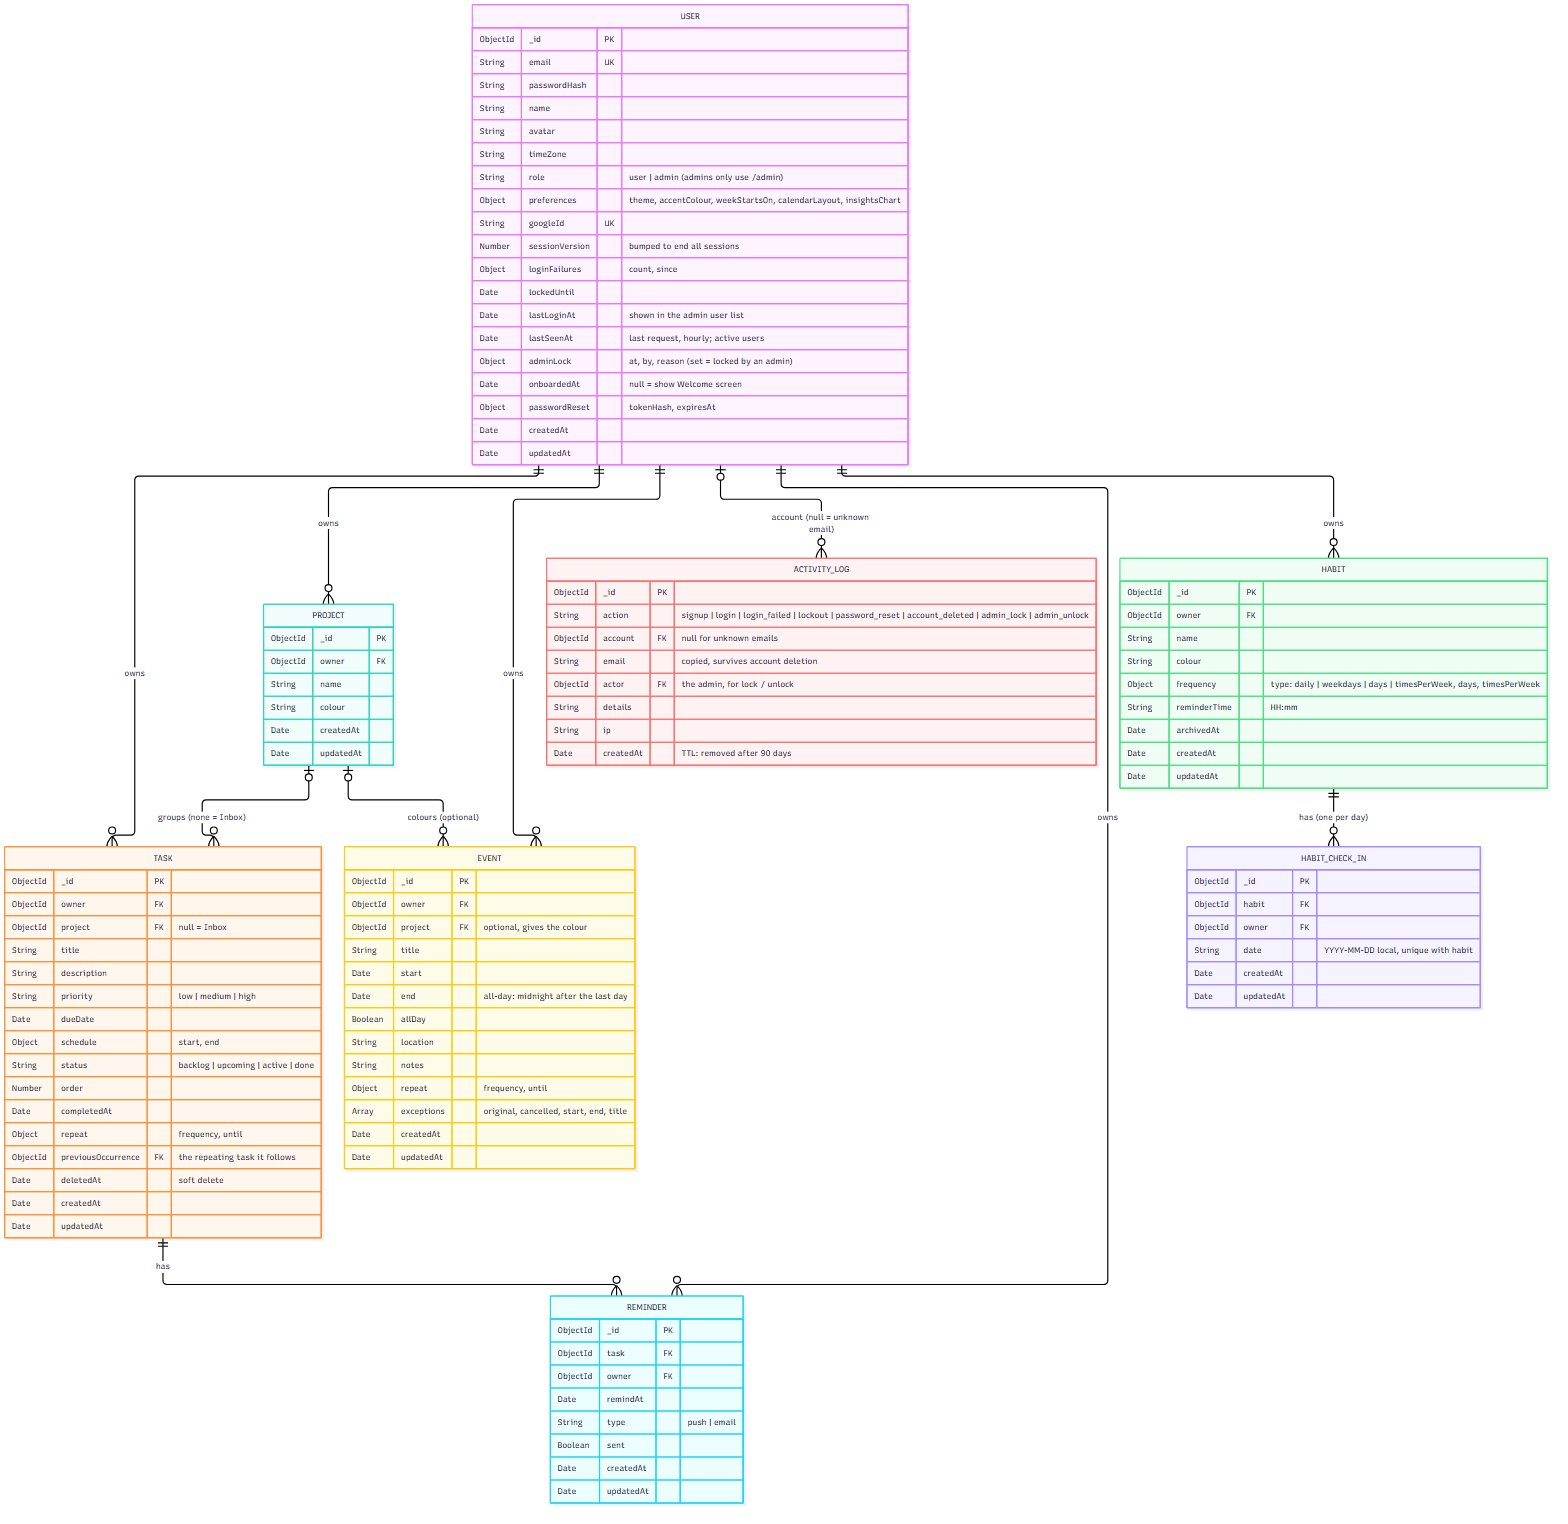
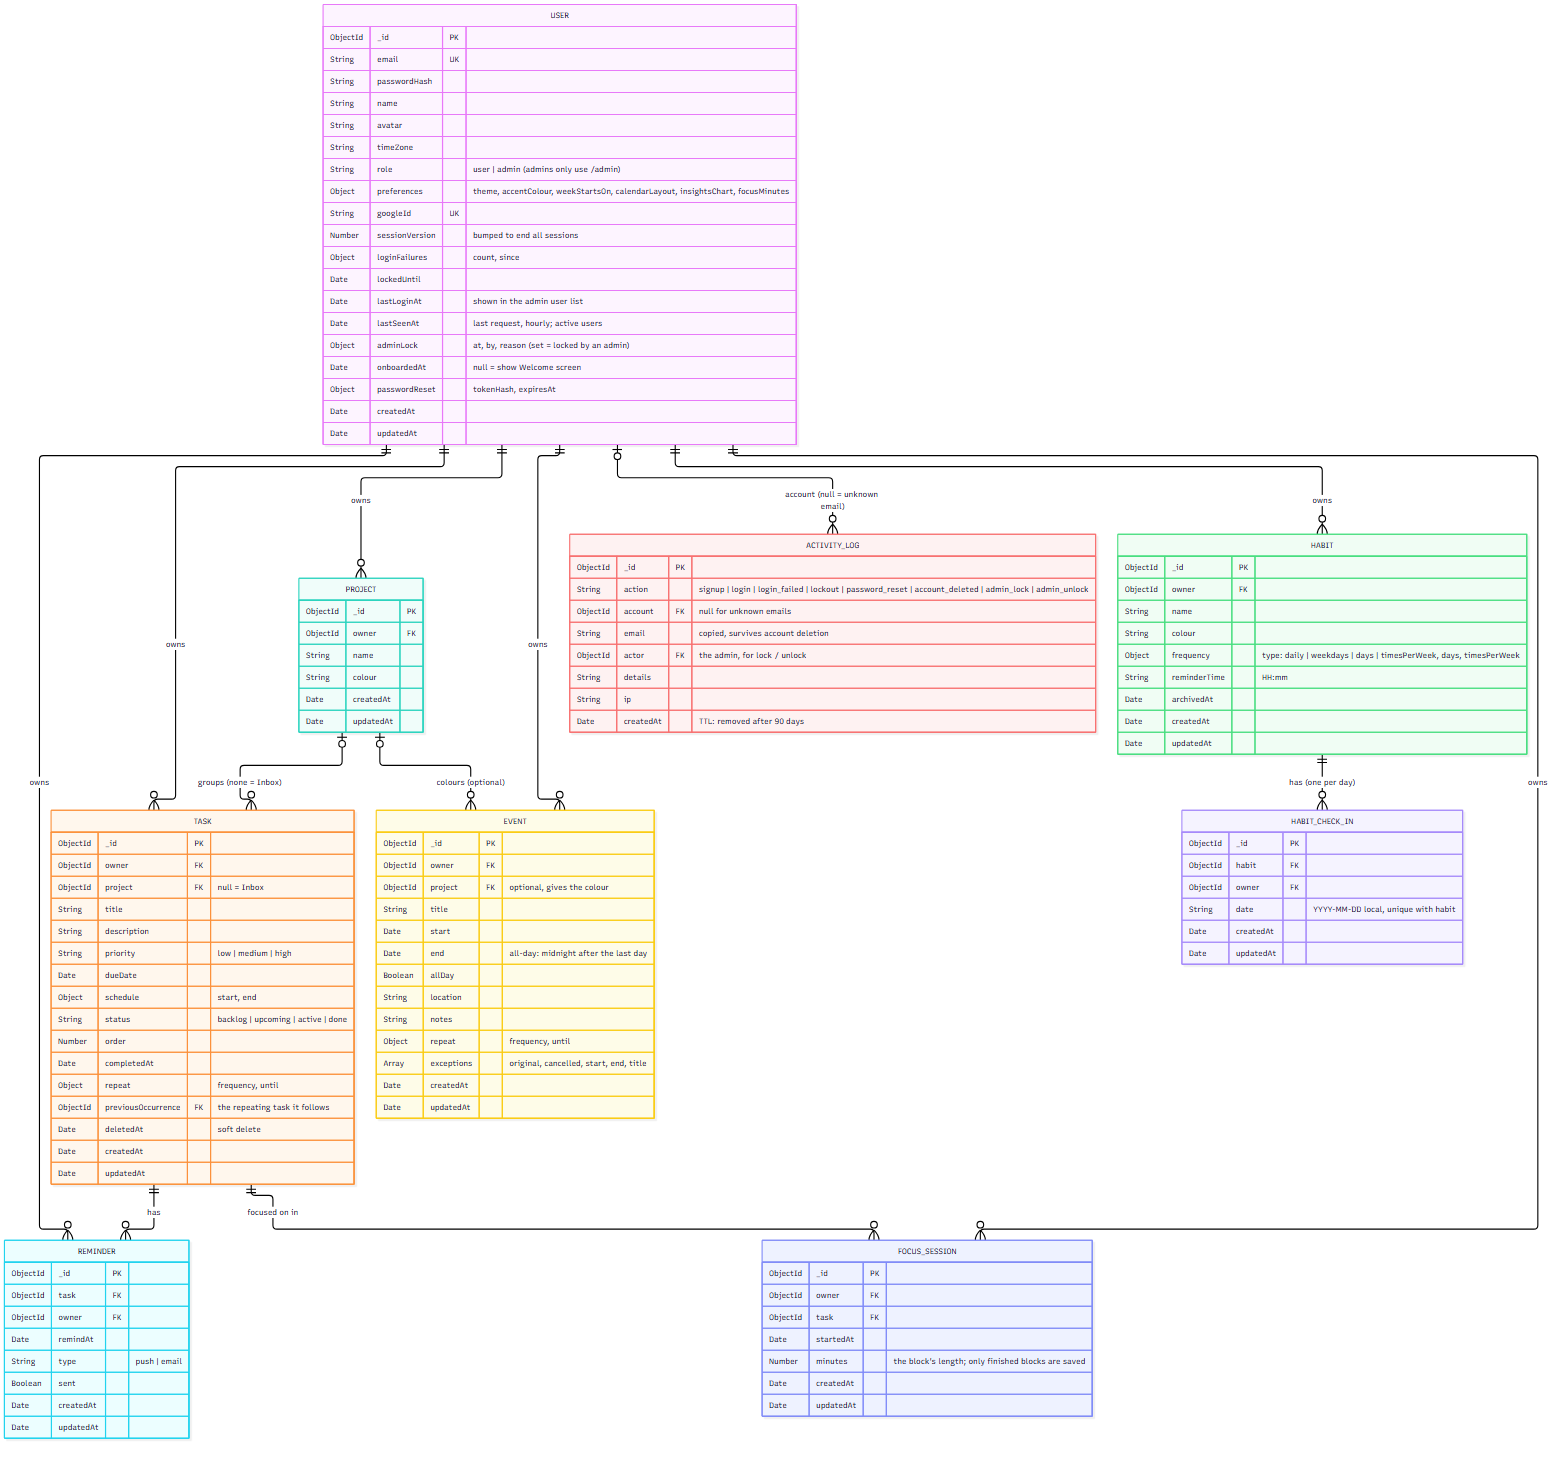
Save focus sessions and the focus length Card: Focus mode
- FocusSession: owner, task, startedAt, minutes. Only blocks that run
  to the end are saved. Added to the ERD and to account deletion.
- preferences.focusMinutes: 25 (with a 5 min break) or 50 (with 10).

diff --git a/tests/accountDeletion.test.js b/tests/accountDeletion.test.js
@@ -50,10 +50,10 @@ describe('deleteAccount', () => {
     const counts = await deleteAccount(req, user);
     expect(order[0]).toBe('log');
     expect(order.at(-1)).toBe('User');
-    expect(order.slice(1, -1).sort()).toEqual(['Event', 'Habit', 'HabitCheckIn', 'Project', 'Reminder', 'Task']);
+    expect(order.slice(1, -1).sort()).toEqual(['Event', 'FocusSession', 'Habit', 'HabitCheckIn', 'Project', 'Reminder', 'Task']);
     for (const Model of OWNED) expect(Model.deleteMany).toHaveBeenCalledWith({ owner: user._id });
     expect(User.deleteOne).toHaveBeenCalledWith({ _id: user._id });
-    expect(counts).toEqual({ Reminder: 2, HabitCheckIn: 2, Habit: 2, Event: 2, Task: 2, Project: 2 });
+    expect(counts).toEqual({ Reminder: 2, HabitCheckIn: 2, Habit: 2, Event: 2, FocusSession: 2, Task: 2, Project: 2 });
   });
 
   test('the log entry keeps the email, since the account itself is gone', async () => {

diff --git a/services/accountDeletion.js b/services/accountDeletion.js
@@ -8,13 +8,14 @@ const Reminder = require('../models/Reminder');
 const Habit = require('../models/Habit');
 const HabitCheckIn = require('../models/HabitCheckIn');
 const Event = require('../models/Event');
+const FocusSession = require('../models/FocusSession');
 const activity = require('./activity');
 
 const AVATAR_DIR = path.join(__dirname, '..', 'public', 'uploads', 'avatars');
 const text = (value) => (typeof value === 'string' ? value : '');
 
 // Everything an account owns. Add new owned collections here so deletion stays complete.
-const OWNED = [Reminder, HabitCheckIn, Habit, Event, Task, Project];
+const OWNED = [Reminder, HabitCheckIn, Habit, Event, FocusSession, Task, Project];
 
 // The confirmation the form asks for: the password, or the account's email for Google-only accounts,
 // plus the "I understand" box. Returns field errors; empty when the request may go ahead.

diff --git a/models/FocusSession.js b/models/FocusSession.js
@@ -1,0 +1,16 @@
+const { Schema, model } = require('mongoose');
+
+// One focus block that ran to the end (Focus mode, Figma W13). Paused time isn't counted: minutes is the block's length.
+const focusSessionSchema = new Schema(
+  {
+    owner: { type: Schema.Types.ObjectId, ref: 'User', required: true },
+    task: { type: Schema.Types.ObjectId, ref: 'Task', required: true },
+    startedAt: { type: Date, required: true },
+    minutes: { type: Number, required: true, min: 1 },
+  },
+  { timestamps: true }
+);
+
+focusSessionSchema.index({ owner: 1, startedAt: 1 }); // a day's sessions (the Focus page, Insights)
+
+module.exports = model('FocusSession', focusSessionSchema);

diff --git a/models/User.js b/models/User.js
@@ -28,6 +28,7 @@ const userSchema = new Schema(
       weekStartsOn: { type: Number, enum: [0, 1], default: 1 }, // 0 = Sunday, 1 = Monday
       calendarLayout: { type: String, enum: ['day', 'week', 'month'], default: 'day' }, // which layout the Calendar opens on
       insightsChart: { type: String, enum: ['bar', 'line'], default: 'bar' }, // Insights › Last 30 days: bars or lines
+      focusMinutes: { type: Number, enum: [25, 50], default: 25 }, // Focus mode: 25 min + 5 break, or 50 + 10
     },
     googleId: { type: String, unique: true, sparse: true },
     sessionVersion: { type: Number, default: 0 }, // bumped to end every session (see middleware/auth.js)
